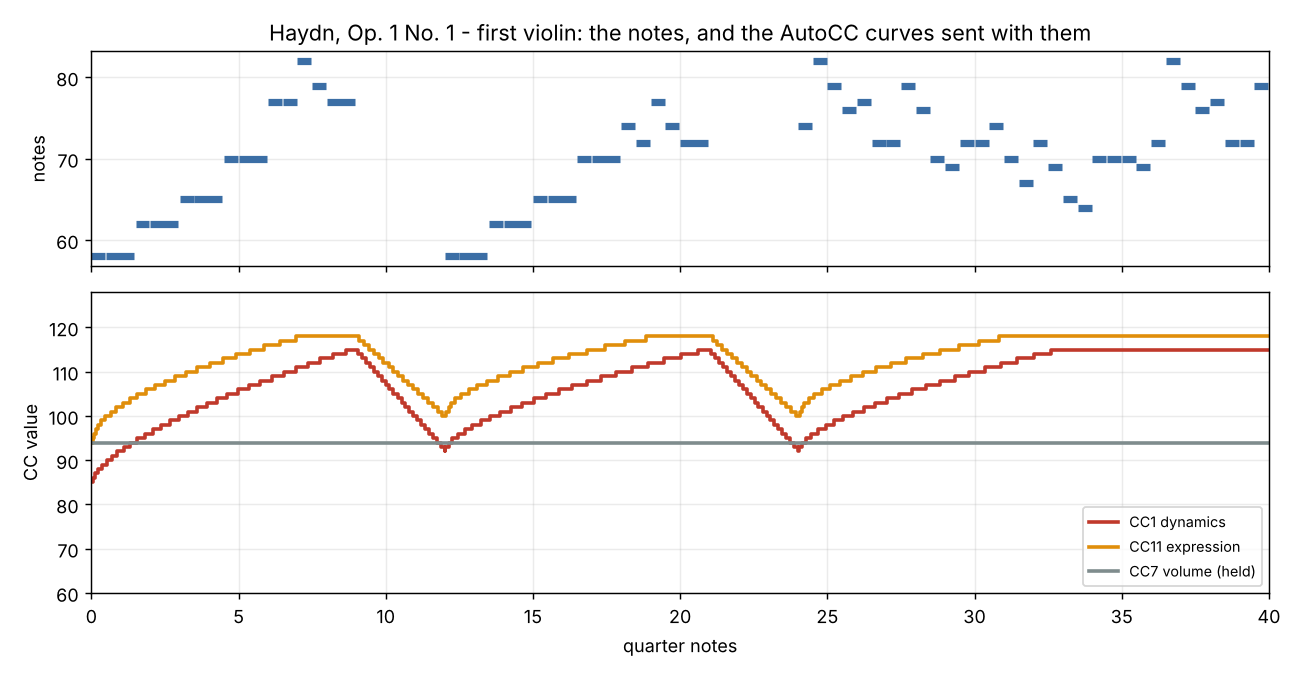
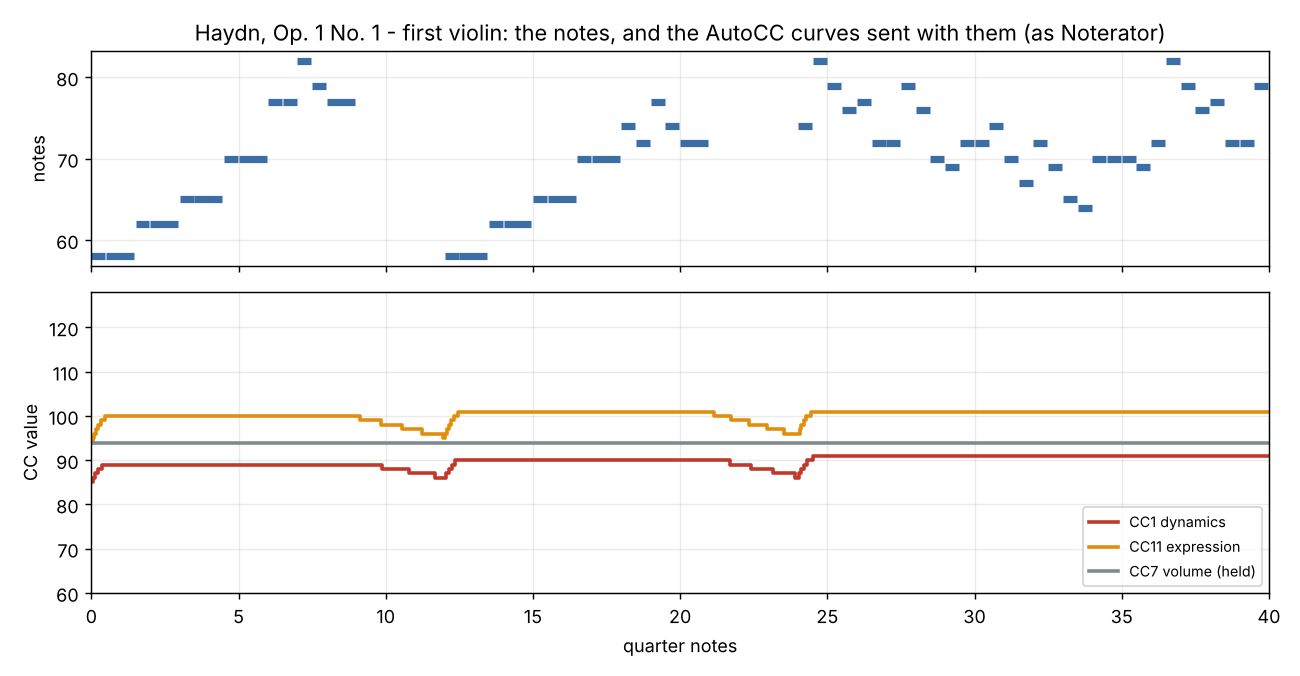
AutoCC fed as Noterator feeds it: each written note its own key, Dynamic left at 0
At the user's request the app now works as Noterator does: every written
note is a key held for its written length, so notes written end to end let
go and AutoCC carries the line on; printed dynamics reach AutoCC through
velocity only. The engine is unchanged (it matches AutoCC.jsfx sample for
sample). The violin test's expectations changed with the requirement - the
reason is written beside them - and a test for notes written end to end is
added. Decision 0012 records the change; the Haydn picture is redrawn.

Claude-Session: https://claude.ai/code/session_01RvNnZmBHwwzgdsdj2S6DLc

diff --git a/Source/Core/Midi.cpp b/Source/Core/Midi.cpp
@@ -220,7 +220,6 @@ Performance perform (const Score& score)
                         if (v > 0) velocityOfStaff[d.staff] = v;
                     }
                 const int velocity = velocityOfStaff.count (e->staff) ? velocityOfStaff[e->staff] : 80;
-                const int dynamicLevel = velocityOfStaff.count (e->staff) ? velocityOfStaff[e->staff] - velocityFor ("mf") : 0;
                 double start = barT + e->offset.value();
                 double length = e->duration.value();
                 if (e->grace)
@@ -252,7 +251,6 @@ Performance perform (const Score& score)
                     pn.length = std::max (0.05, length * (e->grace ? 1.0 : 0.95));
                     pn.written = std::max (0.05, length);
                     pn.velocity = velocity;
-                    pn.dynamic = dynamicLevel;
                     pn.bar = static_cast<int> (b);
                     out.notes.push_back (pn);
                     if (n.tieStart && ! e->grace) open.push_back ({ out.notes.size() - 1, pitch, e->staff });
@@ -275,34 +273,18 @@ Performance perform (const Score& score)
         autocc::Settings settings;
         settings.preset = family == 1 ? autocc::Preset::Strings : family == 2 ? autocc::Preset::Brass
                         : family == 3 ? autocc::Preset::Woodwinds : autocc::Preset::Default;
-        // AutoCC's gesture is first key down to last key up, and in its
-        // Legato mode only those two moments act. Notes written joined (each
-        // starting before the line before it has ended) are one gesture, as a
-        // player overlapping the keys would give it; a rest ends it. So one key
-        // per gesture, with the first note's velocity, is exactly what AutoCC
-        // would make of the line played legato.
+        // As Noterator does (its AutoCC.cpp and Perform.cpp): every written
+        // note is a key of its own, held for its written length; at one
+        // instant the key-ups go first, so notes written end to end let go
+        // and the line is carried on by AutoCC's 0.4 s rule. Dynamic stays at
+        // AutoCC's 0: printed dynamics reach it through velocity.
         std::vector<autocc::KeyEvent> keys;
-        int lastDynamic = 0;
-        double gestureEnd = -1;
         for (const auto& n : out.notes)
         {
             if (n.part != static_cast<int> (p)) continue;
-            const double on = out.seconds (n.start), off = out.seconds (n.start + n.written);
-            if (keys.empty() || on > gestureEnd + 1e-6)
-            {
-                if (! keys.empty()) keys.push_back ({ gestureEnd, 60, 0, false });
-                keys.push_back ({ on, 60, n.velocity, true });
-                gestureEnd = off;
-            }
-            else
-                gestureEnd = std::max (gestureEnd, off);
-            if (n.dynamic != lastDynamic || settings.dynamic.empty())
-            {
-                settings.dynamic.push_back ({ on, std::clamp (n.dynamic, -64, 64) });
-                lastDynamic = n.dynamic;
-            }
+            keys.push_back ({ out.seconds (n.start), n.pitch, n.velocity, true });
+            keys.push_back ({ out.seconds (n.start + n.written), n.pitch, 0, false });
         }
-        if (! keys.empty()) keys.push_back ({ gestureEnd, 60, 0, false });
         if (keys.empty()) continue;
         for (const auto& c : autocc::render (keys, settings))
             out.controls.push_back ({ static_cast<int> (p), out.channelOfPart[p], out.quarters (c.seconds), c.cc, c.value });

diff --git a/Tests/TestMidi.cpp b/Tests/TestMidi.cpp
@@ -167,11 +167,13 @@ ans::Score violinAndPiano (const char* dynamic)
 }
 } // namespace
 
-TEST ("Playback: a violin gets AutoCC's string curves from its dynamic; a piano gets none")
+TEST ("Playback: a violin gets AutoCC's string curves; a piano gets none")
 {
-    // AutoCC strings: CC1 starts at 85 and swells by 31; CC7 is held at 94.
-    // f is 14 above mf in the app's dynamics (velocity 92 against 78), which
-    // moves where CC1 starts and leaves the swell's size alone.
+    // AutoCC strings: CC1 starts at 85 and swells by 31, scaled 10% by
+    // velocity (f is velocity 92): 85 + 31 * (0.9 + 0.1 * 92 / 127) = 115.2.
+    // CC7 is held at 94. As in Noterator, the printed dynamic reaches AutoCC
+    // only through velocity. (This test first moved AutoCC's start by the
+    // dynamic, 99 and 126: the user asked for Noterator's way on 2026-11-09.)
     const auto perf = perform (violinAndPiano ("f"));
     int firstCC1 = -1, topCC1 = -1, pianoControls = 0, cc7 = 0;
     for (const auto& c : perf.controls)
@@ -181,17 +183,44 @@ TEST ("Playback: a violin gets AutoCC's string curves from its dynamic; a piano 
         if (c.controller == 1) topCC1 = std::max (topCC1, c.value);
         if (c.controller == 7) { ++cc7; CHECK_EQ (c.value, 94); }
     }
-    CHECK_EQ (firstCC1, 85 + 14);
-    // the top: AutoCC caps a level at 127 (116 + 14 is 130), and velocity
-    // scales the swell by 10%: 99 + (127 - 99) * (0.9 + 0.1 * 92 / 127) = 126.2.
-    // (This first expected 85 + 14 + 31, forgetting both - corrected 2026-11-09.)
-    CHECK_EQ (topCC1, 126);
+    CHECK_EQ (firstCC1, 85);
+    CHECK_EQ (topCC1, 115);
     CHECK_EQ (cc7, 1);
     CHECK_EQ (pianoControls, 0);
-    // with no dynamic printed, the preset's own start
-    const auto plain = perform (violinAndPiano (nullptr));
-    for (const auto& c : plain.controls)
-        if (c.controller == 1) { CHECK_EQ (c.value, 85); break; }
+}
+
+TEST ("Playback: notes written end to end let go, and AutoCC carries the line on (as Noterator)")
+{
+    // Four quarter notes at a second each. Each is its own key, so between
+    // them every key is up for an instant; the next starts within AutoCC's
+    // 0.4 s, so the line is carried on: the lane holds the level the first
+    // note reached and does not swell again, until the last key goes up.
+    ans::Score s;
+    s.quartersPerMinute = 60;
+    s.parts.resize (1);
+    s.parts[0].name = "Violin";
+    s.parts[0].measures.resize (1);
+    s.parts[0].measures[0].time = ans::TimeSignature {};
+    for (int k = 0; k < 4; ++k)
+    {
+        ans::Event e;
+        e.offset = ans::Fraction (k);
+        e.duration = ans::Fraction (1);
+        ans::Note n;
+        n.pitch = { k, 4, 0 };
+        e.notes.push_back (n);
+        s.parts[0].measures[0].events.push_back (e);
+    }
+    const auto perf = perform (s);
+    auto cc1At = [&] (double quarters) {
+        int v = -1;
+        for (const auto& c : perf.controls) if (c.controller == 1 && c.start <= quarters + 1e-9) v = c.value;
+        return v;
+    };
+    CHECK (cc1At (0.9) > 85 && cc1At (0.9) < 115);   // rising through the first note
+    CHECK_EQ (cc1At (1.5), cc1At (1.0));               // then held, not swelling again
+    CHECK_EQ (cc1At (3.9), cc1At (1.0));
+    CHECK_EQ (cc1At (5.2), 85);                         // back to the floor a second after the last key
 }
 
 TEST ("The MIDI file carries the curves in the violin's track")

diff --git a/Source/Core/Midi.h b/Source/Core/Midi.h
@@ -13,11 +13,10 @@
     Dynamics set the loudness from where they stand.
 
     Sustaining instruments (strings, brass, woodwinds, voices) get AutoCC's
-    controller curves (AutoCC.h): each line's notes swell and fall on CC1,
-    CC11, CC7 and CC21, shaped for the family, starting from the printed
-    dynamic. The MIDI file carries all four lanes, for sample libraries; the
-    Mac's General MIDI sounds are sent CC11 and CC7 only, since there CC1
-    is vibrato rather than loudness (decision 0012).
+    controller curves (AutoCC.h), fed as Noterator feeds them: every written
+    note a key of its own, for its written length. The MIDI file carries
+    CC1, CC11, CC7 and CC21, for sample libraries; the Mac's General MIDI
+    sounds get CC11 and CC7 only, since there CC1 is vibrato (decision 0012).
 */
 
 #pragma once
@@ -41,7 +40,6 @@ struct PlayedNote
     double written = 1;      // as written, ties joined
     int velocity = 80;
     int bar = 0;             // index of the score's bar it starts in
-    int dynamic = 0;         // the printed dynamic as AutoCC's Dynamic: mf 0, f +14, p -24...
 };
 
 struct PlayedControl

diff --git a/docs/decisions/0012-autocc-curves-in-playback.md b/docs/decisions/0012-autocc-curves-in-playback.md
@@ -1,7 +1,8 @@
 # 0012 - AutoCC's controller curves in playback and MIDI export
 
 - **Date:** 2026-11-09
-- **Status:** Accepted (adds to 0008)
+- **Status:** Accepted (adds to 0008); how notes are fed changed the same
+  day, at the user's request, to Noterator's way (below)
 
 ## Context
 
@@ -36,3 +37,16 @@ CC21 aux, with per-family shapes fitted to Lorne Balfe's mock-ups.
   REAPER uses; `tools/autocc/`): 1,300 random note sequences - lines,
   chords, overlaps, gaps either side of 0.4 s, every preset, several
   Dynamic settings - give exactly the same CC values at the same samples.
+
+## Changed (2026-11-09): fed as Noterator feeds it
+
+The user asked for the app to work as Noterator does. Every written note is
+now a key of its own for its written length (Noterator's `AutoCC.cpp` and
+`Perform.cpp`), so notes written end to end let go and AutoCC's 0.4 s rule
+carries the line on at the level the first note reached; and the printed
+dynamic is no longer AutoCC's Dynamic - it reaches AutoCC through velocity
+only, as in Noterator. The two points above about gestures of joined notes
+and the dynamic table are replaced by this. The engine itself is unchanged
+and still matches the JSFX sample for sample; Noterator's port samples
+every 10 ms, so values can land a few milliseconds apart between the two
+apps, never differently shaped.

diff --git a/CLAUDE.md b/CLAUDE.md
@@ -103,9 +103,8 @@ ANS_DEBUG_TIES=1  build-core/notation-scan x.pdf --stdout -q    # every curve an
   the app's Chords button; never written into the MusicXML.
 - AutoCC's curves in playback and MIDI export (0012): the port matches
   AutoCC.jsfx run through ysfx exactly, sample for sample, on 1,300 random
-  note sequences (`tools/autocc/build.sh`, then `compare.py`). Noterator
-  has its own AutoCC port that releases between written notes; this app
-  gives AutoCC one gesture per run of joined notes - worth reconciling.
+  note sequences (`tools/autocc/build.sh`, then `compare.py`). Notes are fed
+  as Noterator feeds them (each written note its own key; Dynamic 0).
 - Instruments from part names, transposition from key signatures (0013):
   96/96 parts right on `tools/transposingscore.py` engravings.
 - The Mac CI job is cancelled by GitHub before it starts (account's Mac
